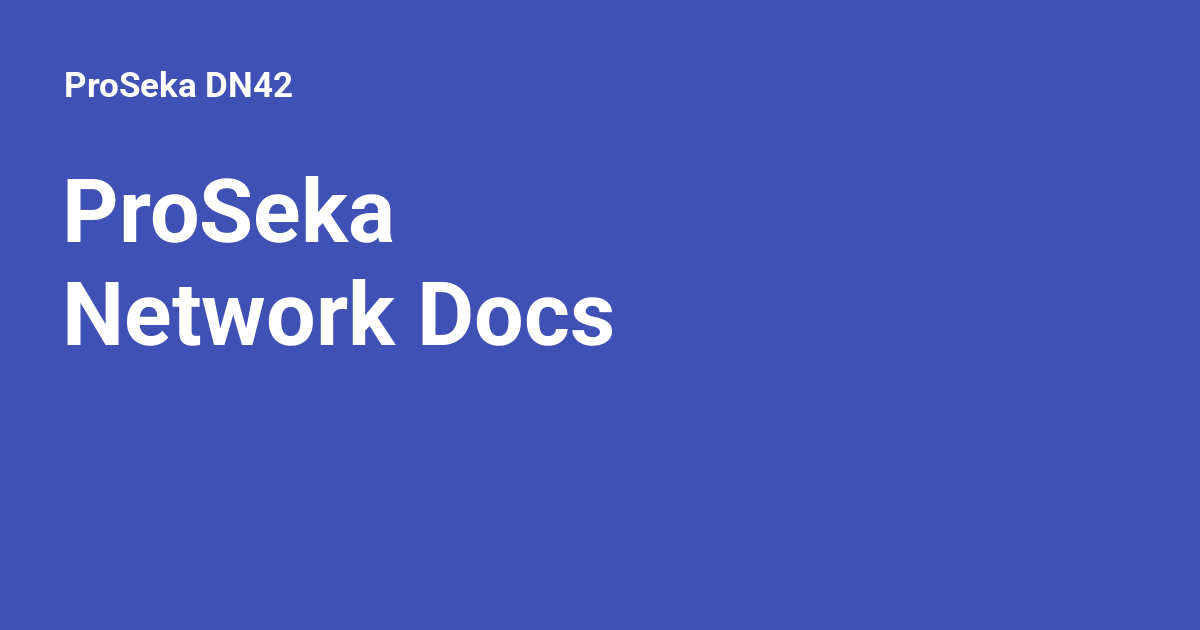
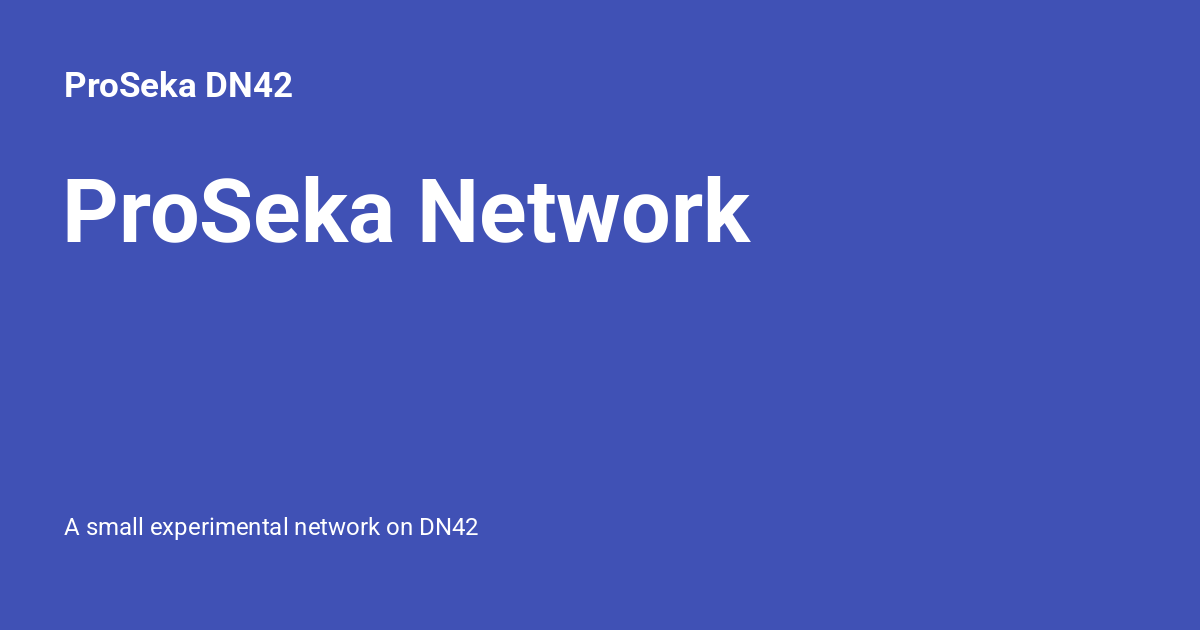
Deployed 20f0b73 with ProperDocs version: 1.6.7

Changed region(s): [[0.0308, 0.4222, 0.5242, 0.573], [0.3392, 0.2714, 0.6475, 0.3921], [0.0617, 0.8143, 0.4008, 0.8746]]

diff --git a/index.html b/index.html
@@ -58,6 +58,7 @@
   
 <meta property="og:type" content="website" />
 <meta property="og:title" content="ProSeka DN42" />
+<meta property="og:description" content="A small experimental network on DN42" />
 <meta property="og:image" content="https://docs.proseka.darrenmc.dev/assets/images/social/index.png" />
 <meta property="og:image:type" content="image/png" />
 <meta property="og:image:width" content="1200" />
@@ -65,6 +66,7 @@
 <meta property="og:url" content="https://docs.proseka.darrenmc.dev/" />
 <meta property="twitter:card" content="summary_large_image" />
 <meta property="twitter:title" content="ProSeka DN42" />
+<meta property="twitter:description" content="A small experimental network on DN42" />
 <meta property="twitter:image" content="https://docs.proseka.darrenmc.dev/assets/images/social/index.png" />
 </head>
   
